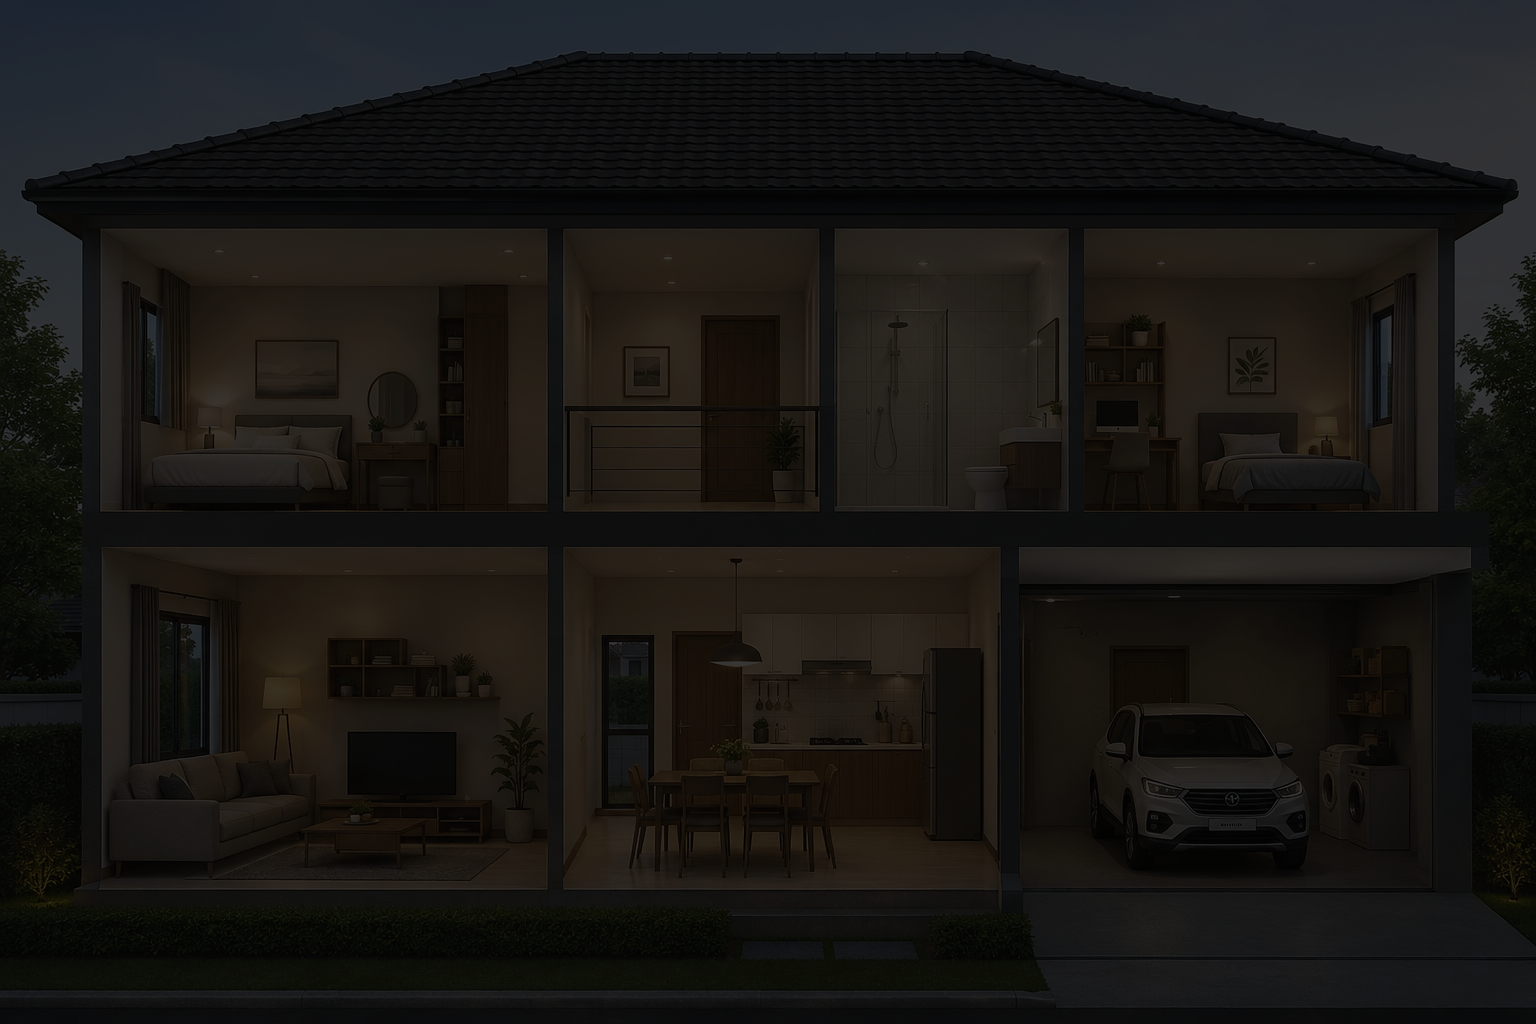
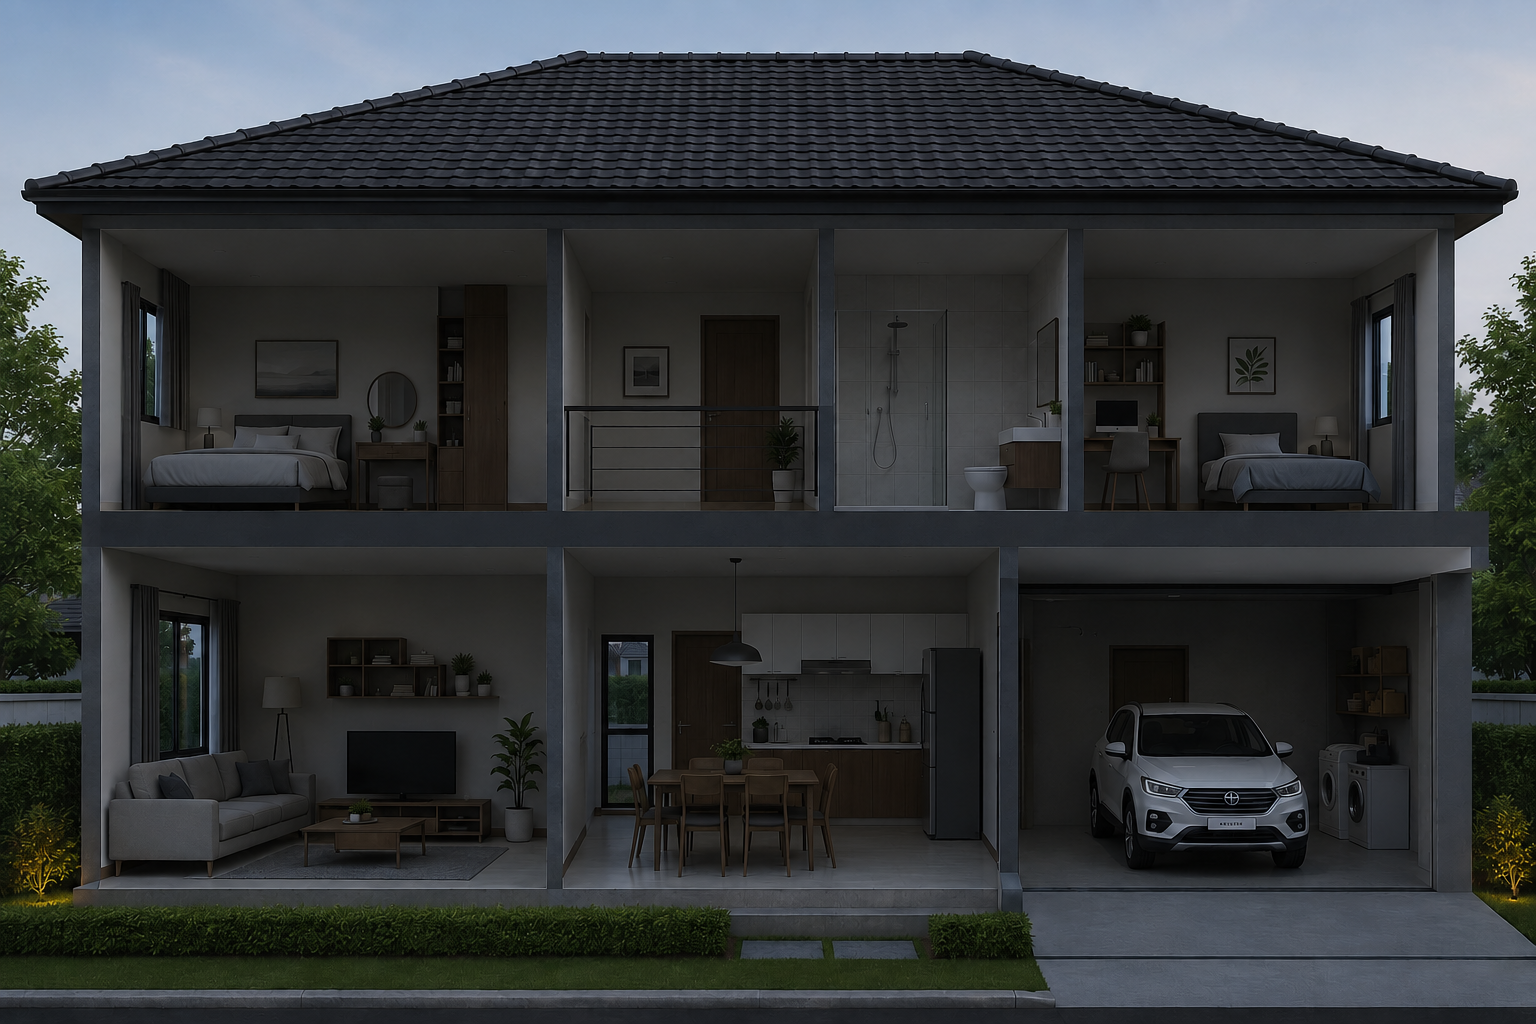
change img

diff --git a/Assets/style.css b/Assets/style.css
@@ -115,10 +115,10 @@ body {
 }
 
 /* Room boundaries match the architectural bays in the supplied image. */
-.light-bedroom  { clip-path: polygon(6.5% 22%, 36% 22%, 36% 51%, 6.5% 51%); }
-.light-bedroom2 { clip-path: polygon(70% 22%, 93.5% 22%, 93.5% 51%, 70% 51%); }
-.light-storage  { clip-path: polygon(36% 22%, 54% 22%, 54% 51%, 36% 51%); }
-.light-bathroom { clip-path: polygon(54% 22%, 70% 22%, 70% 51%, 54% 51%); }
+.light-bedroom  { clip-path: polygon(6.5% 22%, 36% 22%, 36% 50%, 6.5% 50%); }
+.light-bedroom2 { clip-path: polygon(70% 22%, 93.5% 22%, 93.5% 50%, 70% 50%); }
+.light-storage  { clip-path: polygon(36% 22%, 54% 22%, 54% 50%, 36% 50%); }
+.light-bathroom { clip-path: polygon(54% 22%, 70% 22%, 70% 50%, 54% 50%); }
 .light-living   { clip-path: polygon(6.5% 53%, 36% 53%, 36% 86.8%, 6.5% 86.8%); }
 .light-kitchen  { clip-path: polygon(36% 53%, 65.6% 53%, 65.6% 86.8%, 36% 86.8%); }
 .light-garage   { clip-path: polygon(65.5% 53%, 93.5% 53%, 93.5% 86.8%, 65.5% 86.8%); }
@@ -146,13 +146,13 @@ body {
   box-shadow: none;
 }
 
-.zone-bedroom  { left: 5%;  top: 22%; width: 30%; height: 29%; }
-.zone-bedroom2 { left: 70%; top: 22%; width: 25%; height: 29%; }
-.zone-storage  { left: 35%; top: 22%; width: 18%; height: 29%; }
-.zone-bathroom { left: 53%; top: 22%; width: 17%; height: 29%; }
-.zone-living   { left: 5%;  top: 53%; width: 30%; height: 35%; }
-.zone-kitchen  { left: 36%; top: 53%; width: 30%; height: 35%; }
-.zone-garage   { left: 67%; top: 53%; width: 30%; height: 35%; }
+.zone-bedroom  { left: 6.5%;  top: 22%; width: 30%; height: 28%; }
+.zone-bedroom2 { left: 70%; top: 22%; width: 23.5%; height: 28%; }
+.zone-storage  { left: 36%; top: 22%; width: 18%; height: 28%; }
+.zone-bathroom { left: 54%; top: 22%; width: 17%; height: 28%; }
+.zone-living   { left: 6.5%;  top: 53%; width: 30%; height: 34%; }
+.zone-kitchen  { left: 36%; top: 53%; width: 30%; height: 34%; }
+.zone-garage   { left: 65.5%; top: 53%; width: 28%; height: 34%; }
 
 .room-badge {
   position: absolute;
